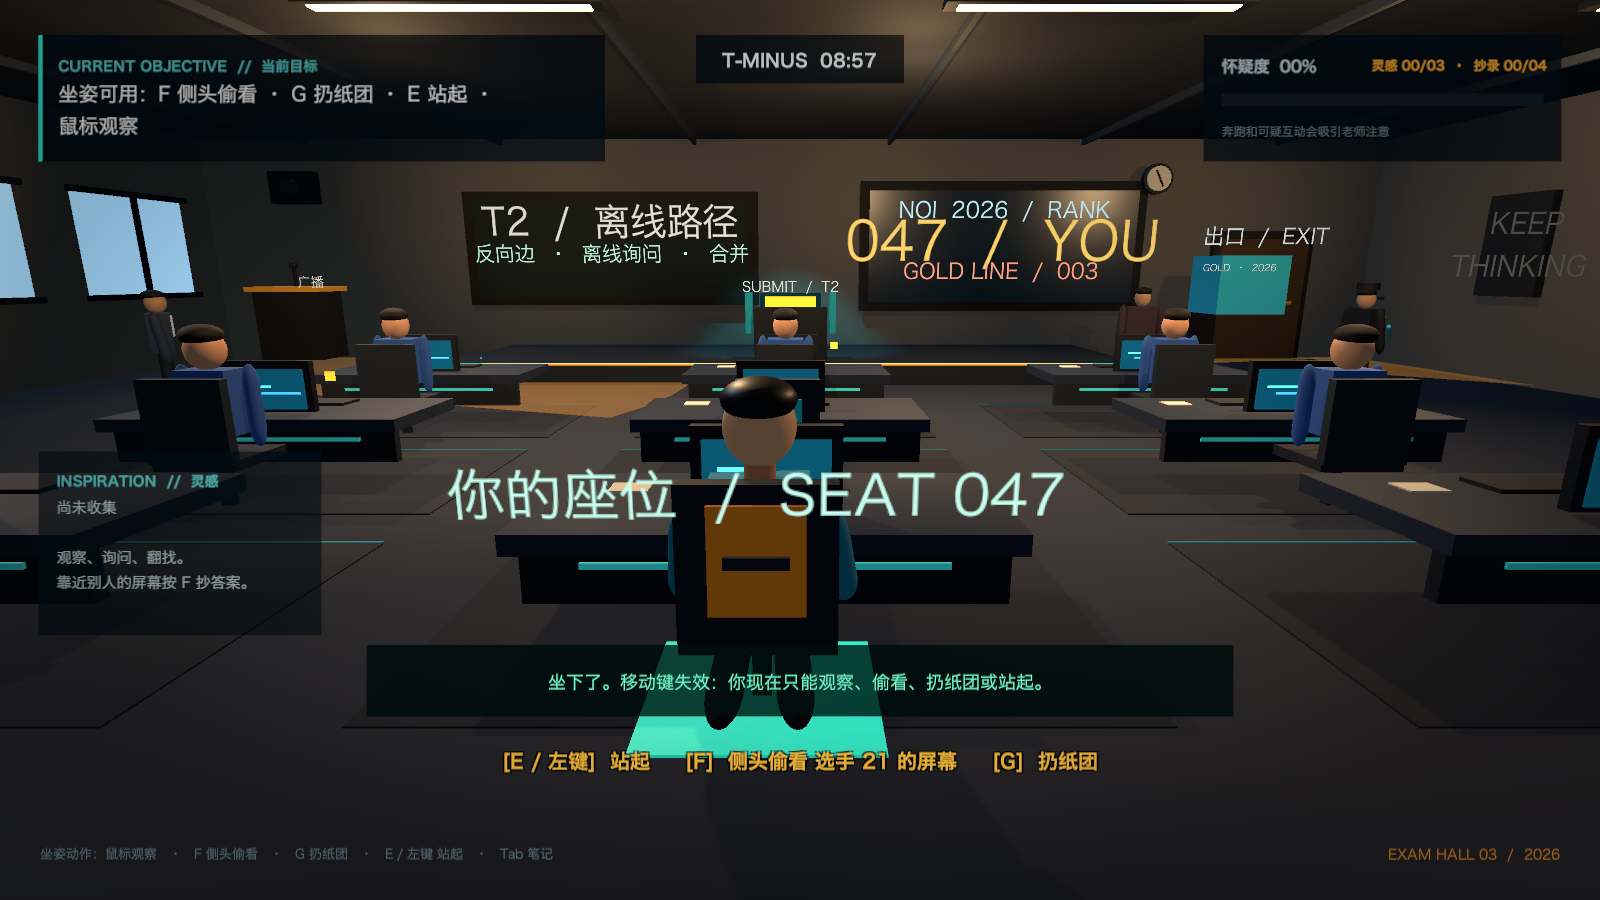
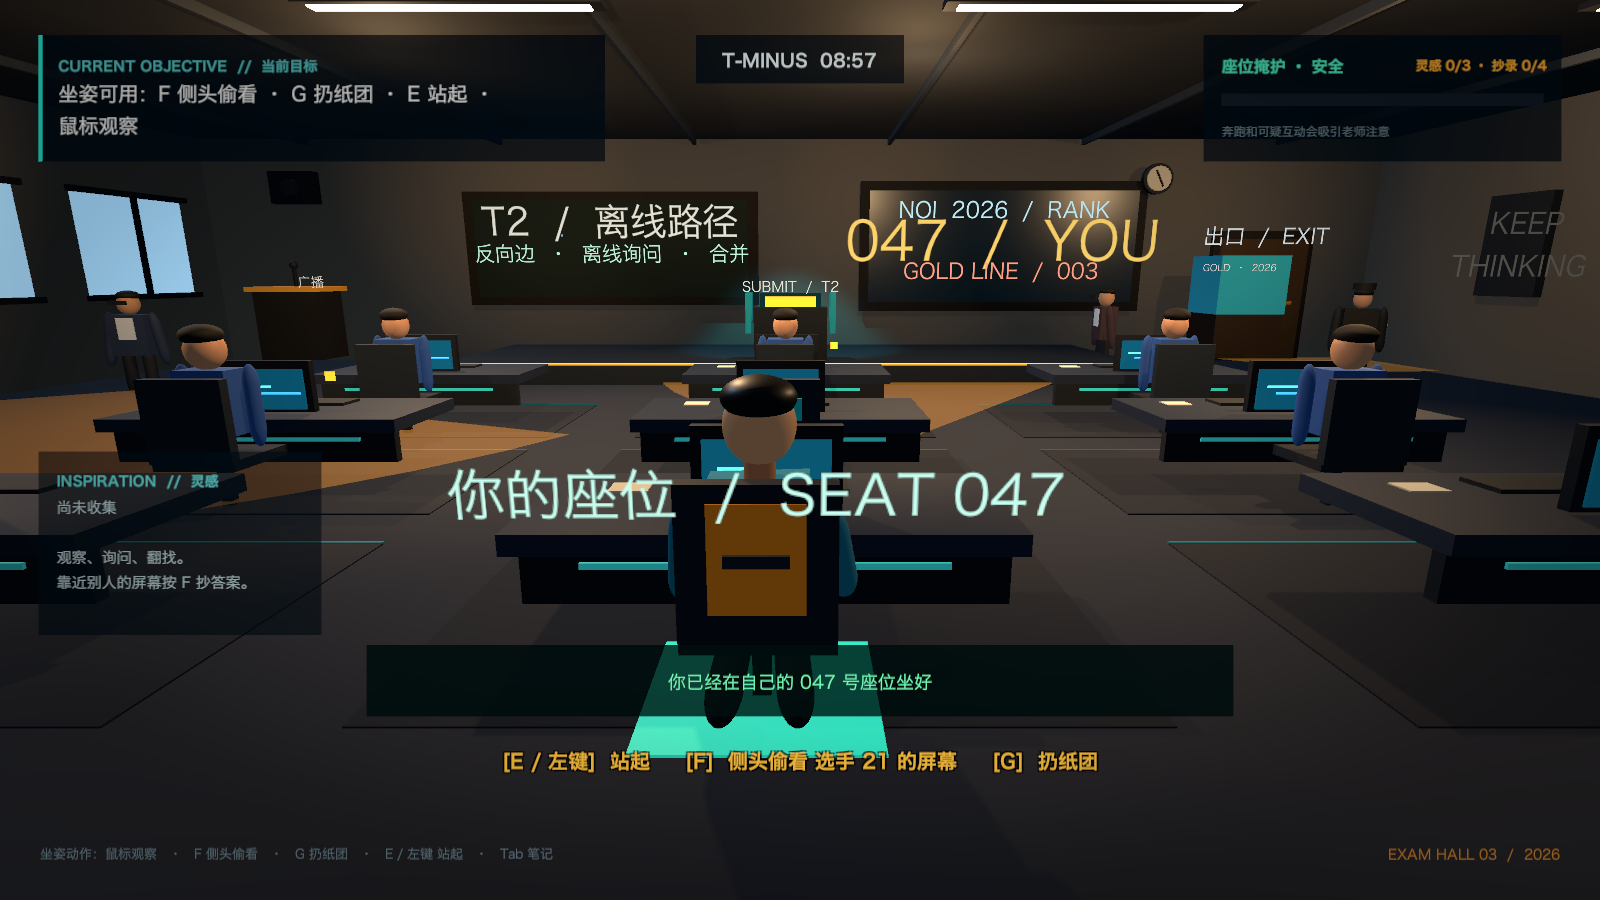
fix: start seated and clarify seat cover status

diff --git a/Assets/Scripts/UI/GameUI.cs b/Assets/Scripts/UI/GameUI.cs
@@ -184,7 +184,7 @@ namespace NOIChaos
 
             GameSession session = game.Session;
             objectiveText.text = session.Objective;
-            clueCounterText.text = $"灵感 {session.ClueCount:00}/{session.MaxClues:00}  ·  抄录 {session.CopiedAnswerCount:00}/{session.MaxCopiedAnswers:00}";
+            clueCounterText.text = $"灵感 {session.ClueCount}/{session.MaxClues} · 抄录 {session.CopiedAnswerCount}/{session.MaxCopiedAnswers}";
 
             float suspicion = session.Suspicion / 100f;
             suspicionFill.rectTransform.anchorMax = new Vector2(suspicion, 1f);
@@ -192,8 +192,7 @@ namespace NOIChaos
                 new Color(0.16f, 0.78f, 0.75f),
                 new Color(1f, 0.22f, 0.16f),
                 Mathf.Clamp01(suspicion * 1.25f));
-            suspicionText.text = $"怀疑度  {Mathf.RoundToInt(session.Suspicion):00}%";
-            suspicionText.color = suspicion > 0.72f ? new Color(1f, 0.45f, 0.34f) : new Color(0.77f, 0.84f, 0.87f);
+            RefreshDetectionStatus(session);
             if (controlHintText != null)
             {
                 controlHintText.text = session.IsSeated
@@ -237,6 +236,34 @@ namespace NOIChaos
             int seconds = Mathf.FloorToInt(remaining % 60f);
             timerText.text = $"T-MINUS  {minutes:00}:{seconds:00}";
             timerText.color = remaining < 60f ? new Color(1f, 0.31f, 0.25f) : new Color(0.9f, 0.94f, 0.94f);
+            RefreshDetectionStatus(game.Session);
+        }
+
+        private void RefreshDetectionStatus(GameSession session)
+        {
+            if (suspicionText == null)
+            {
+                return;
+            }
+
+            int suspicionPercent = Mathf.RoundToInt(session.Suspicion);
+            if (session.IsSeated && game.Player != null && game.Player.IsConcealedAtSeat)
+            {
+                suspicionText.text = "座位掩护 · 安全";
+                suspicionText.color = new Color(0.32f, 0.94f, 0.76f);
+            }
+            else if (session.IsSeated)
+            {
+                suspicionText.text = $"暴露中 · {suspicionPercent:00}%";
+                suspicionText.color = new Color(1f, 0.66f, 0.22f);
+            }
+            else
+            {
+                suspicionText.text = $"怀疑度  {suspicionPercent:00}%";
+                suspicionText.color = session.Suspicion > 72f
+                    ? new Color(1f, 0.45f, 0.34f)
+                    : new Color(0.77f, 0.84f, 0.87f);
+            }
         }
 
         private void RefreshNotebook()
@@ -558,9 +585,9 @@ namespace NOIChaos
 
             GameObject statusPanel = CreatePanel("Status panel", hudRoot.transform, new Color(0.025f, 0.05f, 0.072f, 0.88f), new Vector2(1f, 1f), new Vector2(1f, 1f), new Vector2(1f, 1f), new Vector2(-46f, -42f), new Vector2(430f, 152f));
             suspicionText = CreateText("Suspicion label", statusPanel.transform, "怀疑度  00%", 20, new Color(0.77f, 0.84f, 0.87f), TextAnchor.MiddleLeft, FontStyle.Bold);
-            Place(suspicionText.rectTransform, new Vector2(0f, 1f), new Vector2(0f, 1f), new Vector2(0f, 1f), new Vector2(22f, -22f), new Vector2(260f, 28f));
-            clueCounterText = CreateText("Clue count", statusPanel.transform, "灵感 00/03 · 抄录 00/04", 16, new Color(1f, 0.69f, 0.2f), TextAnchor.MiddleRight, FontStyle.Bold);
-            Place(clueCounterText.rectTransform, new Vector2(1f, 1f), new Vector2(1f, 1f), new Vector2(1f, 1f), new Vector2(-18f, -22f), new Vector2(320f, 28f));
+            Place(suspicionText.rectTransform, new Vector2(0f, 1f), new Vector2(0f, 1f), new Vector2(0f, 1f), new Vector2(22f, -22f), new Vector2(190f, 28f));
+            clueCounterText = CreateText("Clue count", statusPanel.transform, "灵感 0/3 · 抄录 0/4", 16, new Color(1f, 0.69f, 0.2f), TextAnchor.MiddleRight, FontStyle.Bold);
+            Place(clueCounterText.rectTransform, new Vector2(1f, 1f), new Vector2(1f, 1f), new Vector2(1f, 1f), new Vector2(-18f, -22f), new Vector2(210f, 28f));
 
             Image barBackground = CreateImage("Suspicion track", statusPanel.transform, new Color(0.08f, 0.12f, 0.15f, 1f));
             Place(barBackground.rectTransform, new Vector2(0f, 1f), new Vector2(0f, 1f), new Vector2(0f, 1f), new Vector2(22f, -70f), new Vector2(386f, 15f));

diff --git a/Assets/Scripts/Core/GameManager.cs b/Assets/Scripts/Core/GameManager.cs
@@ -135,10 +135,13 @@ namespace NOIChaos
             UI.ShowHUD();
             Player.SetControl(true);
             PlayerCamera.SetControl(true);
+            GameObject playerStation = GameObject.Find("Your station");
+            Transform playerChair = playerStation != null ? playerStation.transform.Find("Chair") : null;
+            Player.SitAt(playerChair);
             SetCursorLocked(true);
-            UI.Toast("08:59:59  //  第一题 Accepted", new Color(0.45f, 1f, 0.72f));
-            ToastLater("发光椅子就是你的 047 号座位：按 E 或鼠标左键坐下。", 2.6f);
-            ToastLater("坐下后移动会失效：F 侧头偷看，G 扔纸团，E 站起。", 5.2f);
+            UI.Toast("你已经在自己的 047 号座位坐好", new Color(0.45f, 1f, 0.72f));
+            ToastLater("座位掩护生效：普通巡场扫描不会增加怀疑度。", 2.6f);
+            ToastLater("E/左键站起 · F 侧头偷看 · G 扔纸团 · 移动和拳击需先站起", 5.2f);
             transitionLocked = false;
         }
 

diff --git a/README.md b/README.md
@@ -134,7 +134,7 @@ UNITY="/Applications/Unity/Hub/Editor/2022.3.62f3c1/Unity.app/Contents/MacOS/Uni
 
 ### 坐姿规则
 
-坐下后不能移动、奔跑、跳跃、蹲伏或出拳。正常坐在 047 号座位时不会因为普通巡场视线被锁定；一旦偷看答案或扔纸团，会短暂暴露并重新进入监考视线判定。你可以用鼠标转头、`F` 侧头偷看附近的答案、`G` 扔纸团、打开笔记本，或按 `E` / 鼠标左键站起。起身后所有动作恢复。
+游戏开始时角色默认坐在自己的 047 号座位里。坐下后不能移动、奔跑、跳跃、蹲伏或出拳。正常坐着时 HUD 会显示“座位掩护 · 扫描无效”，普通巡场视线不会增加怀疑度；一旦偷看答案或扔纸团，会短暂暴露并重新进入监考视线判定。你可以用鼠标转头、`F` 侧头偷看附近的答案、`G` 扔纸团、打开笔记本，或按 `E` / 鼠标左键站起。起身后所有动作恢复。
 
 ## 设计原则
 
